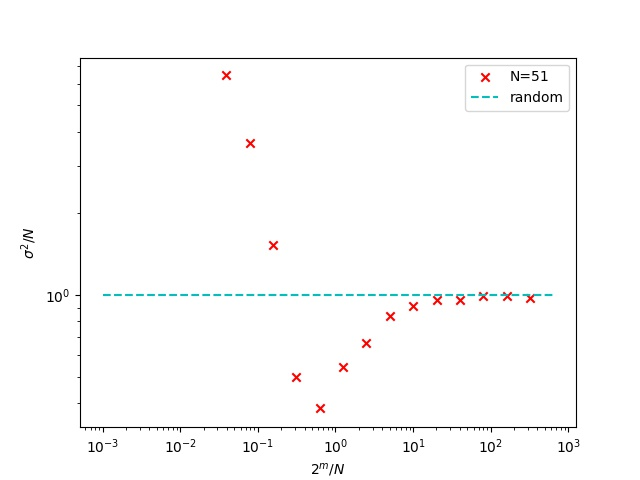
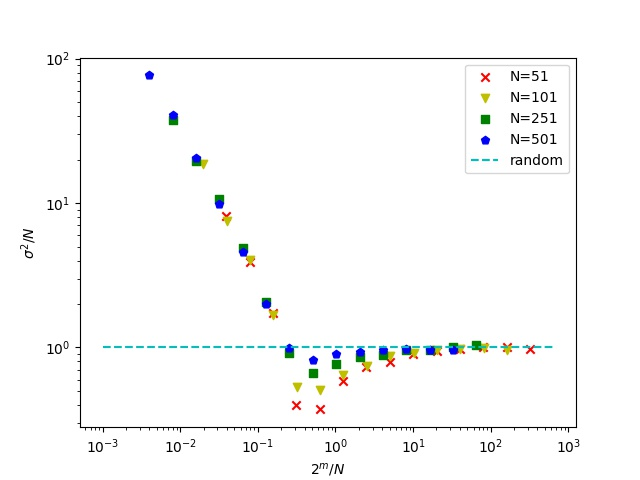
5/11, 13：27

diff --git a/minority_game-master/sim/sim_succ.py b/minority_game-master/sim/sim_succ.py
@@ -4,24 +4,27 @@ from frame.minoritygame import *
 import matplotlib.pyplot as plt
 
 
-X = []
-Y = []
-N = 101
-for m in range(1,10):
-    x = []
-    y = []
-    for t in range(10):
-        sim = System(T=200,N=N, m=m)
-        sim.run()
-        x.append(float(2**m)/float(N))
-        y.append(mean(sim.SuccessRates))
-    X.append(mean(x))
-    Y.append(mean(y))
-    print('m='+str(m))
 
-plt.plot(X,Y,'o-')
+N = [51,101,251,501]
+syms = ['ro-','gs-','bd-','cx-']
+for i in range(len(N)):
+    X = []
+    Y = []
+    for m in range(1,10):
+        x = []
+        y = []
+        for t in range(10):
+            sim = System(T=200,N=N[i], m=m,lp=1)
+            sim.run()
+            x.append(float(2**m)/float(N[i]))
+            y.append(mean(sim.SuccessRates))
+        X.append(mean(x))
+        Y.append(mean(y))
+        print('m='+str(m))
+    plt.plot(X, Y, syms[i], label='N=' + str(N[i]))
 plt.xscale('log')
 plt.xlabel(r'$2^{m}/N$')
 plt.ylabel(r'$success\ rate$')
+plt.legend(loc='best')
 plt.savefig('figures/Success_rate.jpg')
 plt.close()

diff --git a/minority_game-master/sim/sim_sign.py b/minority_game-master/sim/sim_sign.py
@@ -15,7 +15,7 @@ for i in range(len(N)):
             sim = System(T=500,N=N[i], m=m,s=s)
             sim.run()
             x.append(float(2**m)/float(N[i]))
-            y.append(var(sim.A2)/float(N[i]))
+            y.append(var(sim.A)/float(N[i]))
         X.append(mean(x))
         Y.append(mean(y))
         print('m='+str(m))
